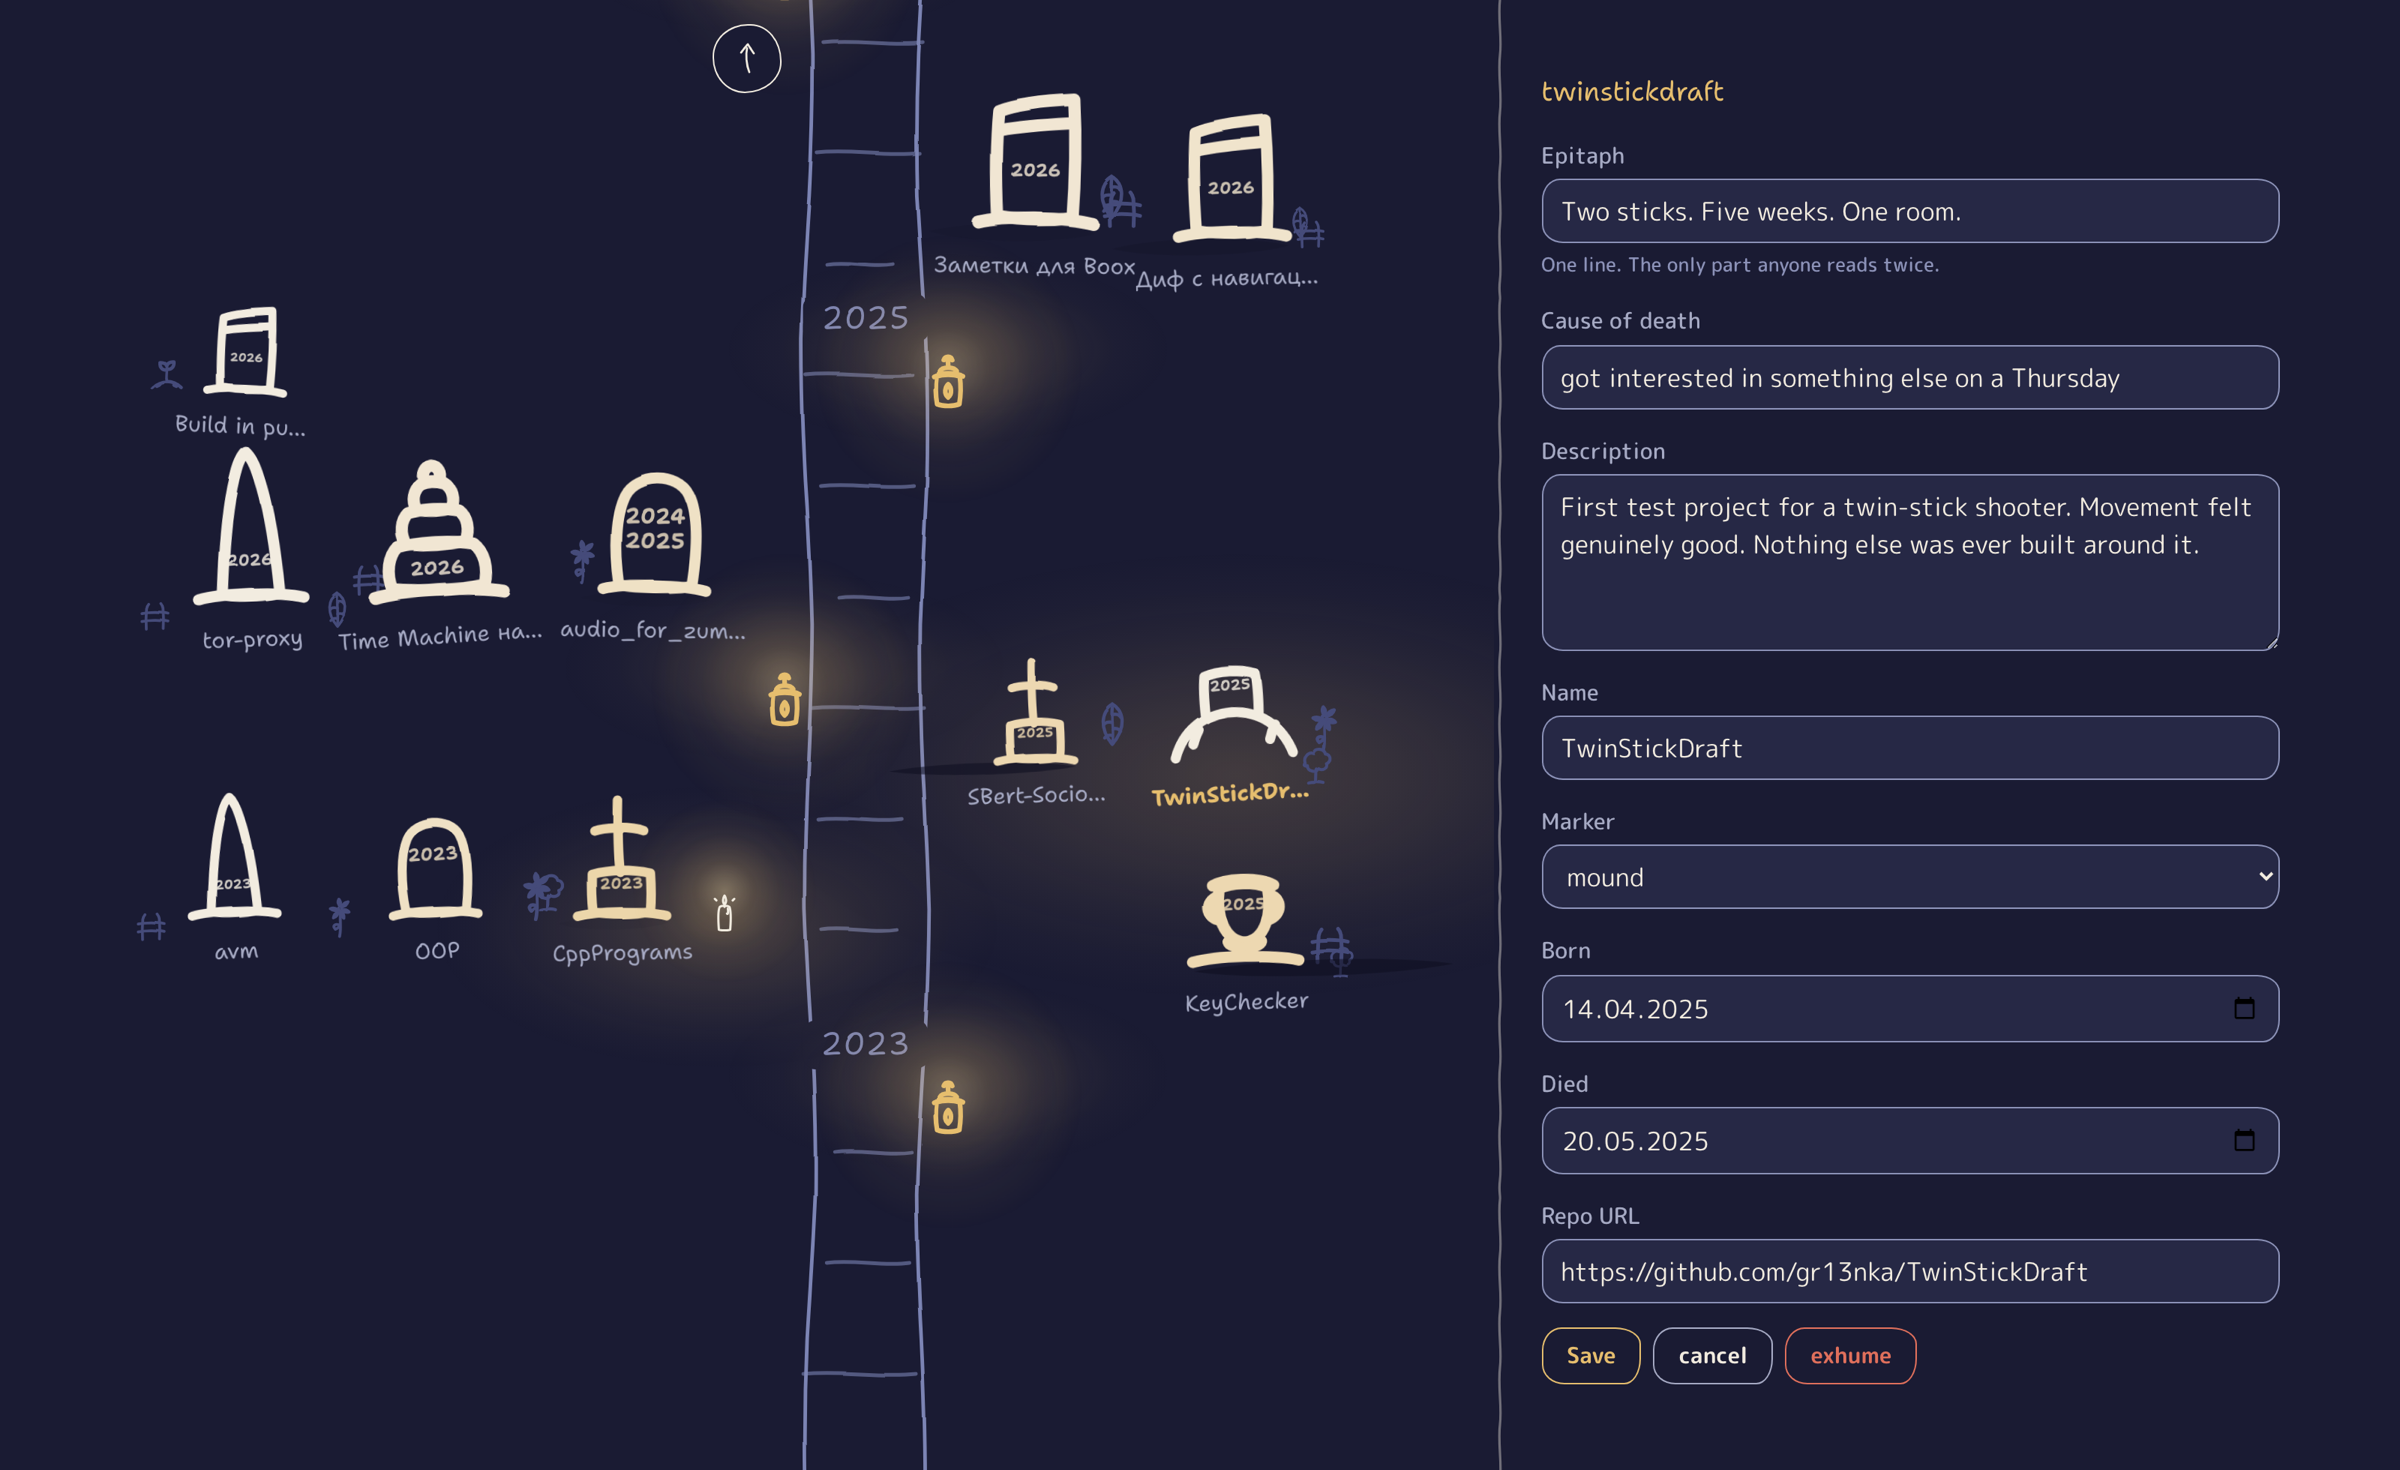
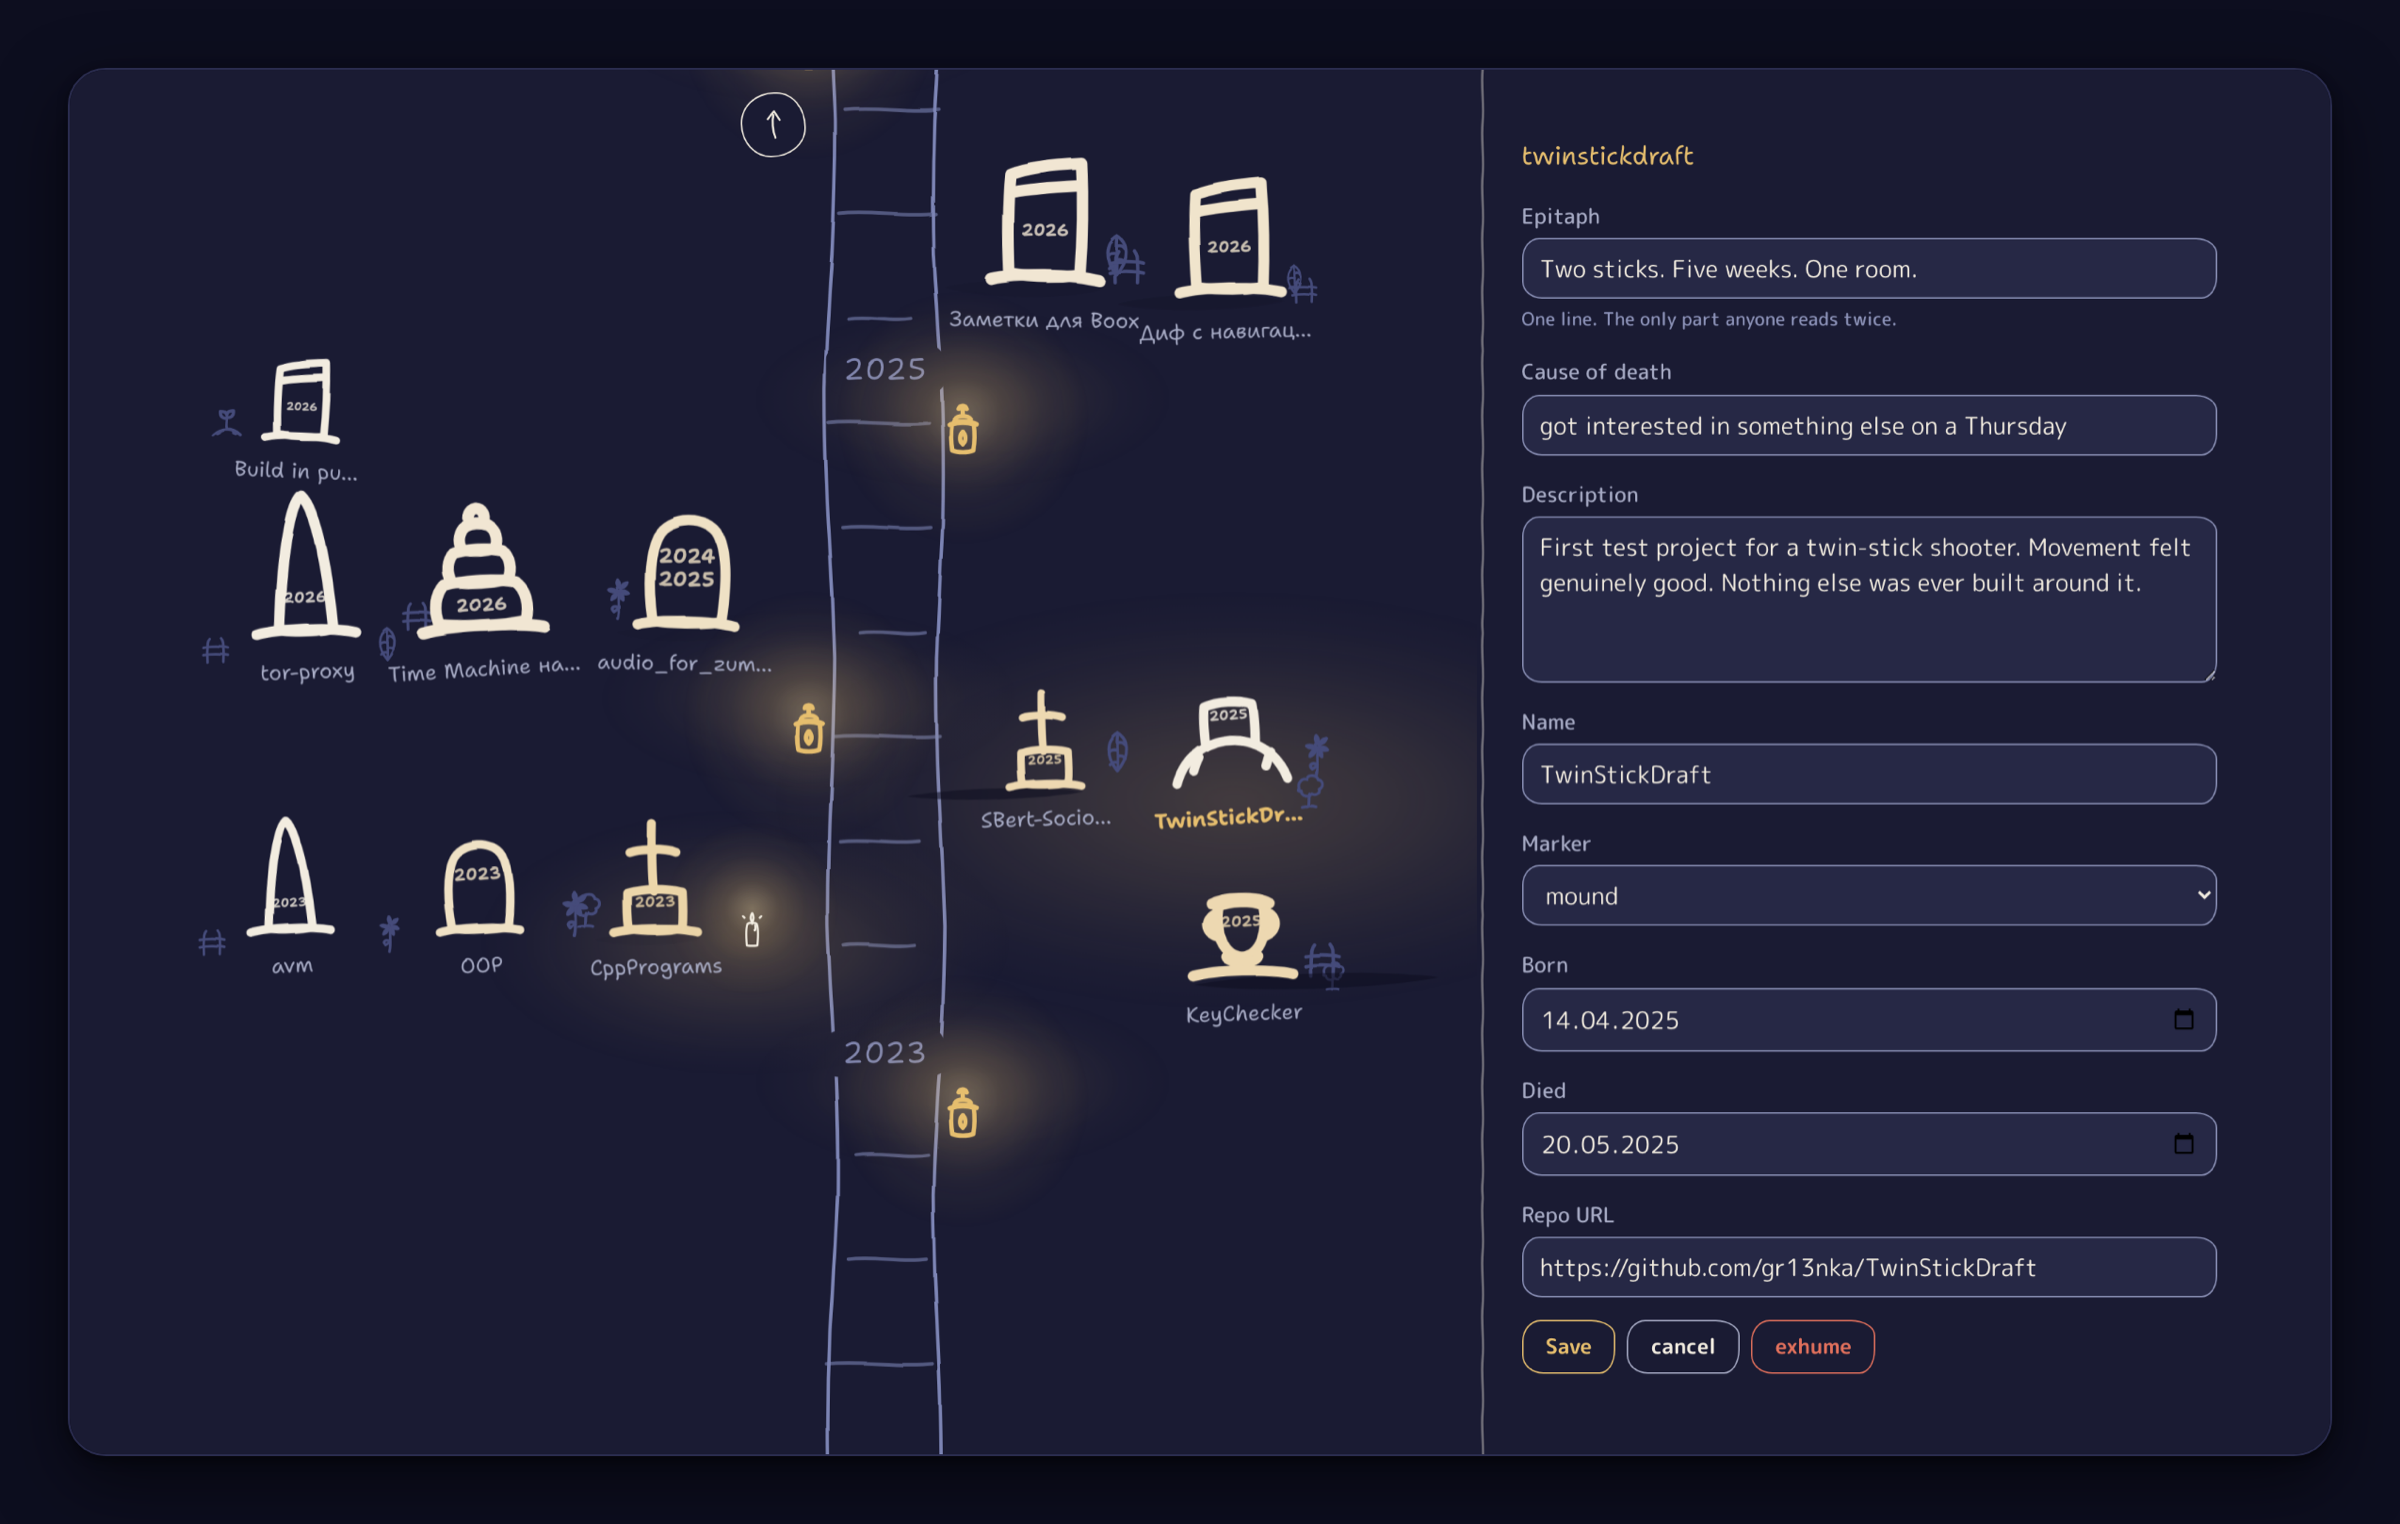
Mat the README's screenshots instead of butting them against the page
A bare screenshot of a dark scene, dropped straight into a README, has no
edge: on GitHub's dark theme the yard's own ground runs into the page and
the image reads as a hole rather than as a picture of something.

Each of the three now sits on a mat — rounded corners, a hairline edge and
a soft drop shadow on a surround of --gy-cast, the tone this palette
reserves for what shadows fall to. That tone is chosen rather than picked
by eye: it is defined to sit below the ground in luminance, which is
exactly the relationship a screenshot needs to its mount, so the shot reads
as lying on top of the mat rather than continuing into it.

The framing is composited in the browser rather than by an image library,
which is the cheapest correct answer here: the whole treatment is four CSS
declarations, and rendering it through Chromium is the same capture path
the screenshots already came from, so the radius, the hairline and the
shadow cannot drift between the stills and the animation.

The animation gets the same frame, one frame at a time — all seventy-two
matted in a single browser session before being re-encoded, so it is a
matted card that animates rather than a bare rectangle sitting next to two
framed pictures. That costs 68KB over a flat mat with no shadow, which was
tried and rejected: the palette is a fixed 256 colours and a soft shadow
spends some of them, but the visible difference in the candle's glow turned
out to be nothing and the defined edge is worth more.

diff --git a/README.md b/README.md
@@ -66,7 +66,7 @@ the graves. [How an idea's grave differs →](docs/GUIDE.md#how-an-ideas-grave-d
 
 ## Light a candle
 
-<img src="docs/images/candle.gif" alt="A match is struck on the box, carried up to the wick, and the candle catches" width="360">
+<img src="docs/images/candle.gif" alt="A match is struck on the box, carried up to the wick, and the candle catches" width="400">
 
 Drag the match onto the box, scrub it sideways until it catches, then carry it up to the
 wick — you have five seconds before it burns down to your fingers. The candle then burns at
